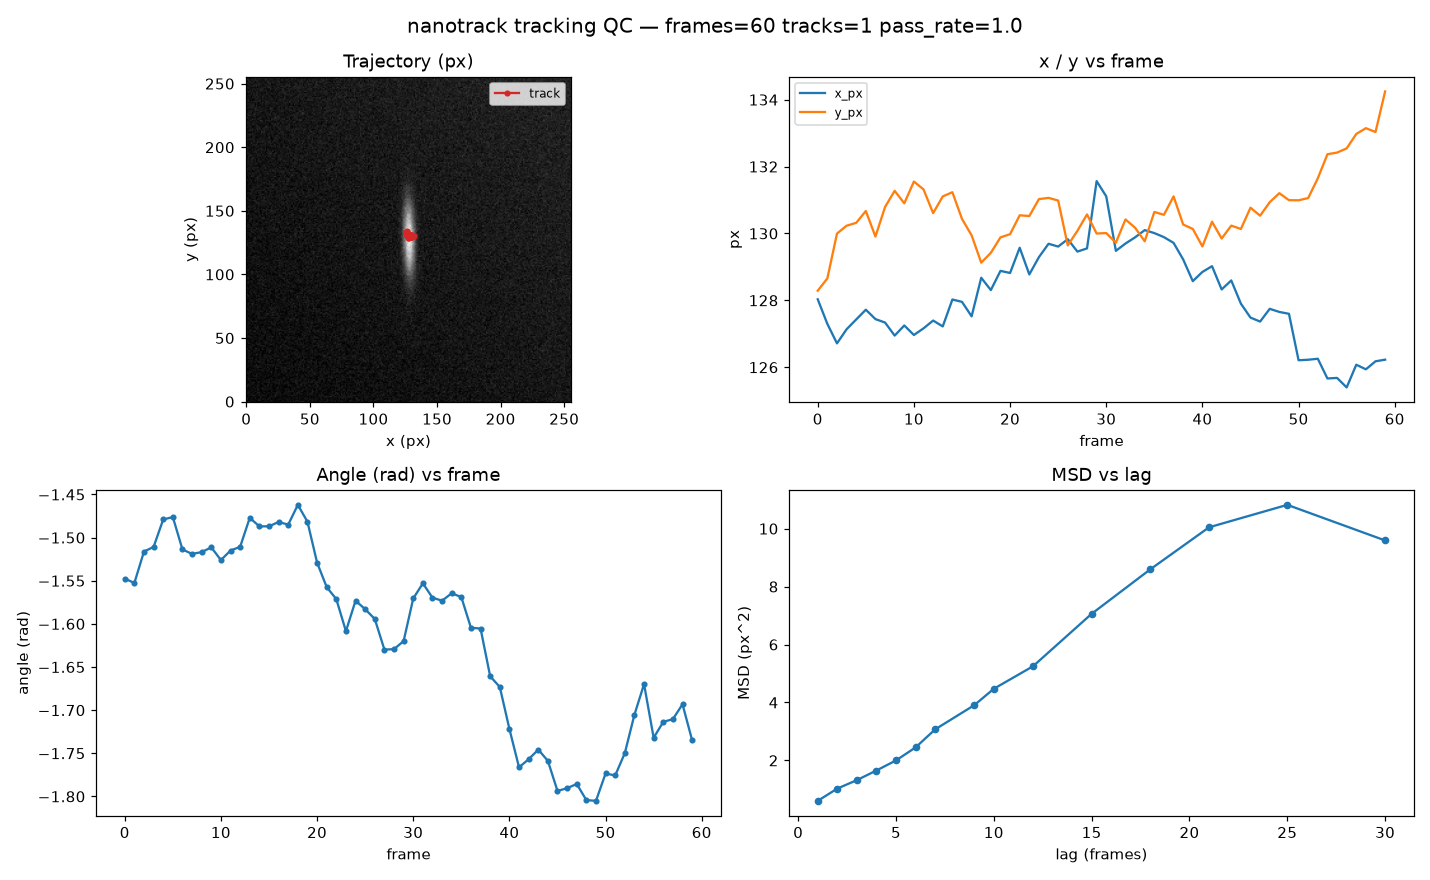
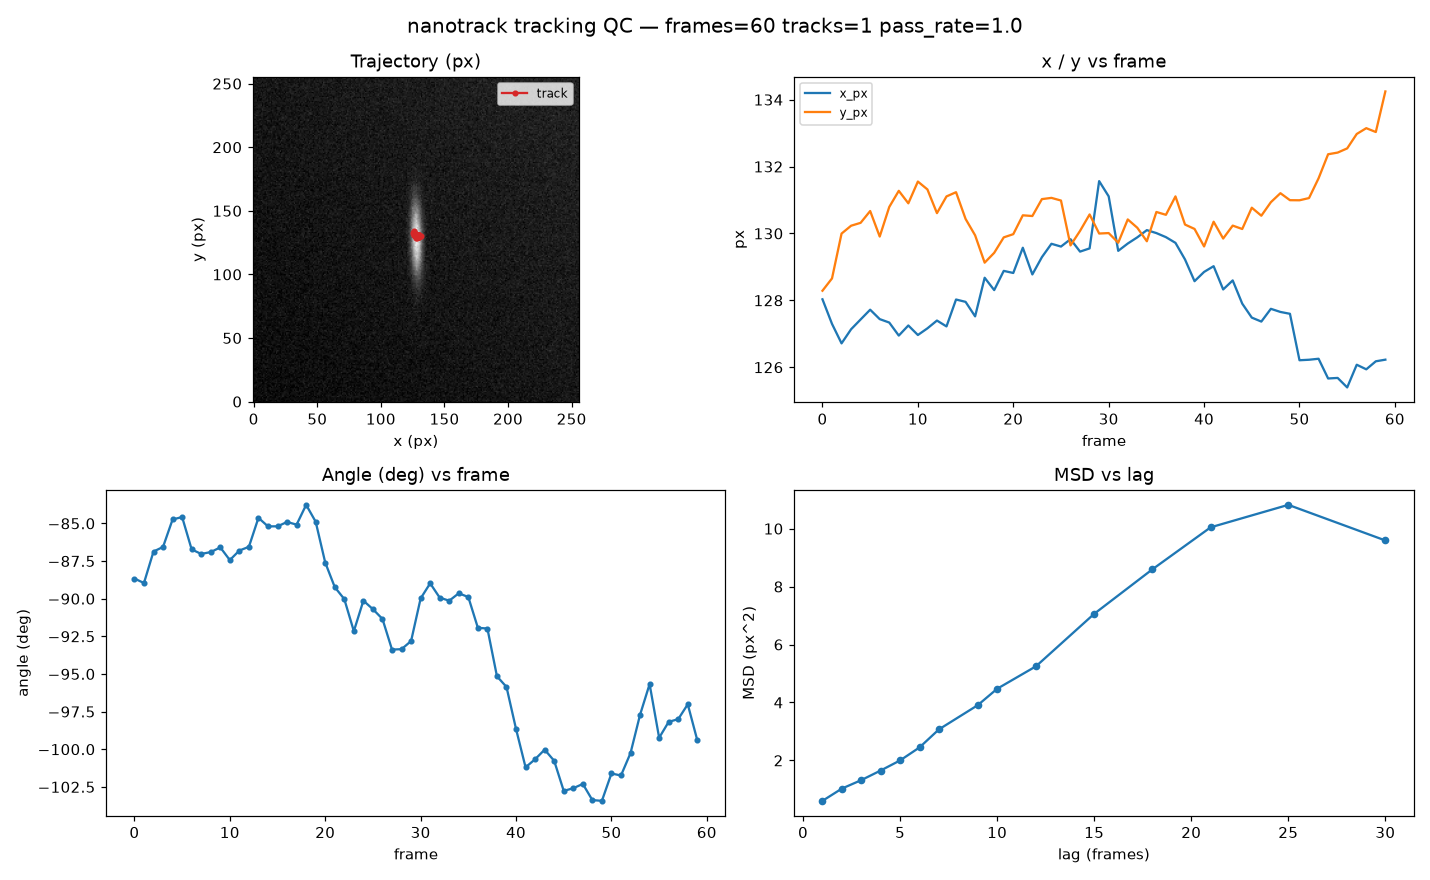
ZHA-109: docs: regenerate QC preview in degrees (README angle label)

diff --git a/README.md b/README.md
@@ -34,7 +34,7 @@ Services: API `:8000`, Airflow `:8080`, Prometheus `:9090`, Grafana `:3000`.
 
 **Tracking QC report** — an interactive HTML report is written to
 `output/tracking_report.html` after every run (trajectory overlaid on the first frame,
-x/y vs frame, unwrapped angle in rad vs frame, MSD vs lag). Static preview:
+x/y vs frame, unwrapped angle in deg vs frame, MSD vs lag). Static preview:
 
 ![Tracking QC report](docs/assets/tracking_qc_preview.png)
 
